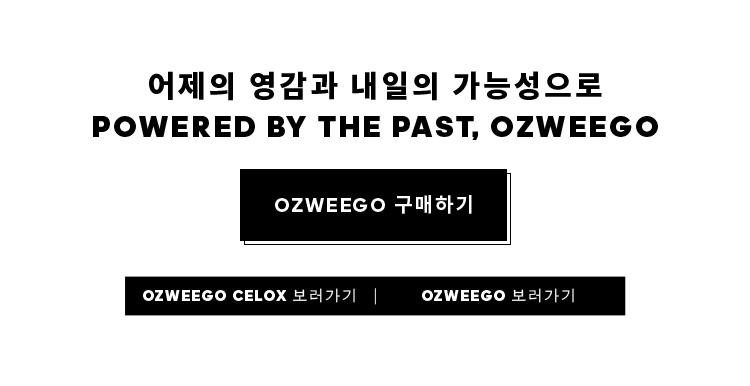
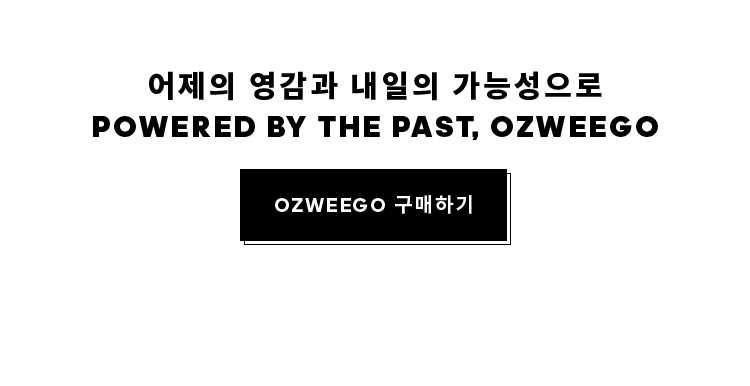
후

Changed region(s): [[0.1533, 0.715, 0.8587, 0.8394]]

diff --git a/mobile/html/adidas/pn/SS21ozweego.html b/mobile/html/adidas/pn/SS21ozweego.html
@@ -1,5 +1,5 @@
 <div id="container">
-        <style type="text/css">@media screen and (max-width: 320px){html{font-size:10px}}@media screen and (min-width: 800px){html{font-size:12px}}.pseudo-element{content:'';display:block}#ozweego{position:relative}#ozweego button,#ozweego div,#ozweego a{outline:none}#ozweego .button_area_v2{display:inline-block}#ozweego .button_area_v2 a{height:44px;font:400 10px/43px 'NotoSansKR';letter-spacing:1px;padding:0 20px}#ozweego .button_area_v2>div.gray a{background:#1b1b1e;color:#fff}#ozweego .button_area_v2>div.gray a::after{-webkit-box-shadow:inset 0 0 0 1px #1b1b1e;box-shadow:inset 0 0 0 1px #1b1b1e}#ozweego .rel{position:relative}#ozweego section{position:relative}#ozweego img{width:100%}#ozweego .celox .bg01{background:url("/images/adidas/2021/event/originals/ozweego/celox/bg01.jpg") no-repeat;background-position:top;background-size:100% 100%}#ozweego .celox .bg02{background:url("/images/adidas/2021/event/originals/ozweego/celox/bg02.jpg") no-repeat;background-position:top;background-size:100% 100%}#ozweego .oz .bg01{background:url("/images/adidas/2021/event/originals/ozweego/oz/bg01.jpg") no-repeat;background-position:top;background-size:100% 100%}#ozweego .oz .bg02{background:url("/images/adidas/2021/event/originals/ozweego/oz/bg02.jpg") no-repeat;background-position:top;background-size:100% 100%}#ozweego .mi{padding:2.5rem 0 6em !important}#ozweego .visuals .visuals__figure{position:relative;padding-top:99.5%}#ozweego .visuals .visuals__figure img{position:absolute;top:0;bottom:auto;left:0;transform:none;margin-left:auto;z-index:1;opacity:0;transition:all 0.5s ease-in}#ozweego .visuals .visuals__figure img.on{opacity:1}#ozweego .contents{width:100%;padding-top:839%;background:#cae017}@media screen and (device-width: 320px){#ozweego .contents{padding-top:865%}}@media screen and (device-width: 360px){#ozweego .contents{padding-top:848%}}@media screen and (device-width: 375px){#ozweego .contents{padding-top:839%}}@media screen and (device-width: 414px){#ozweego .contents{padding-top:820%}}#ozweego .contents .contents__container{position:absolute;top:0;left:0;width:100%;opacity:0;transition:all 1s ease-in}#ozweego .contents .contents__container.on{opacity:1;z-index:1}#ozweego .contents .contents__container .slider_wrap{padding:4rem 0}#ozweego .contents .contents__container .slider_wrap>div{position:relative;text-align:center}#ozweego .contents .contents__container .slider_wrap>div:first-child .button_area_v2{margin-bottom:4rem}#ozweego .contents .contents__container .slider_wrap>div .slider_set01{width:75%;margin:0 auto}#ozweego .contents .contents__container .slider_wrap>div .slider_set01 .slick-dots{text-align:center;margin:1rem 0}#ozweego .contents .contents__container .slider_wrap>div .slider_set01 .slick-dots li{display:inline-block;width:7px;height:7px;margin:0 2px;border:1px solid #fff;border-radius:50%}#ozweego .contents .contents__container .slider_wrap>div .slider_set01 .slick-dots li button{background:none;text-indent:-9999px;border:0}#ozweego .contents .contents__container .slider_wrap>div .slider_set01 .slick-dots li.slick-active{background:#fff}#ozweego .contents .contents__container .slider_wrap>div .slider__nav{position:absolute;top:31%;bottom:auto;left:50%;transform:translate(-50%, -50%);margin-left:auto;width:90%;margin:0 auto}#ozweego .contents .contents__container .slider_wrap>div .slider__nav::after{display:block;content:'';clear:both}#ozweego .contents .contents__container .slider_wrap>div .slider__nav .prev-button,#ozweego .contents .contents__container .slider_wrap>div .slider__nav .next-button{display:inline-block;width:3.5%}#ozweego .contents .contents__container .slider_wrap>div .slider__nav .prev-button{float:left;transform:rotate(-180deg)}#ozweego .contents .contents__container .slider_wrap>div .slider__nav .next-button{float:right}#ozweego .contents .contents__container .subSlider_wrap{padding:2.5rem 0}#ozweego .contents .contents__container .subSlider_wrap .video02{position:relative;width:75%;margin:0 auto;padding:0 0 0.5rem}#ozweego .contents .contents__container .subSlider_wrap .slider__inner{text-align:center}#ozweego .contents .contents__container .subSlider_wrap .slider__inner .slider_set02{width:75%;margin:0 auto}#ozweego .contents .contents__container .subSlider_wrap .slider__inner .slider_set02 .slick-dots{text-align:center;margin:1rem 0 0.3rem}#ozweego .contents .contents__container .subSlider_wrap .slider__inner .slider_set02 .slick-dots li{display:inline-block;width:7px;height:7px;margin:0 2px;border:1px solid #000;border-radius:50%}#ozweego .contents .contents__container .subSlider_wrap .slider__inner .slider_set02 .slick-dots li button{background:none;text-indent:-9999px;border:0}#ozweego .contents .contents__container .subSlider_wrap .slider__inner .slider_set02 .slick-dots li.slick-active{background:#000}#ozweego .contents .contents__container .subSlider_wrap .slider__inner .slider__nav{position:absolute;top:42%;bottom:auto;left:50%;transform:translate(-50%, -50%);margin-left:auto;width:90%;margin:0 auto}#ozweego .contents .contents__container .subSlider_wrap .slider__inner .slider__nav::after{display:block;content:'';clear:both}#ozweego .contents .contents__container .subSlider_wrap .slider__inner .slider__nav .prev-button,#ozweego .contents .contents__container .subSlider_wrap .slider__inner .slider__nav .next-button{display:inline-block;width:3.5%}#ozweego .contents .contents__container .subSlider_wrap .slider__inner .slider__nav .prev-button{float:left;transform:rotate(-180deg)}#ozweego .contents .contents__container .subSlider_wrap .slider__inner .slider__nav .next-button{float:right}#ozweego .contents .contents__container .subSlider_wrap .slider__inner p{text-align:left;width:75%;margin:0 auto 1rem;font:500 10px/17px "NotoSansKR";color:#000}
+        <style type="text/css">@media screen and (max-width: 320px){html{font-size:10px}}@media screen and (min-width: 800px){html{font-size:12px}}.pseudo-element{content:'';display:block}#ozweego{position:relative}#ozweego button,#ozweego div,#ozweego a{outline:none}#ozweego .button_area_v2{display:inline-block}#ozweego .button_area_v2 a{height:44px;font:400 10px/43px 'NotoSansKR';letter-spacing:1px;padding:0 20px}#ozweego .button_area_v2>div.gray a{background:#1b1b1e;color:#fff}#ozweego .button_area_v2>div.gray a::after{-webkit-box-shadow:inset 0 0 0 1px #1b1b1e;box-shadow:inset 0 0 0 1px #1b1b1e}#ozweego .rel{position:relative}#ozweego section{position:relative}#ozweego img{width:100%}#ozweego .celox .bg01{background:url("/images/adidas/2021/event/originals/ozweego/celox/bg01.jpg") no-repeat;background-position:top;background-size:100% 100%}#ozweego .celox .bg02{background:url("/images/adidas/2021/event/originals/ozweego/celox/bg02.jpg") no-repeat;background-position:top;background-size:100% 100%}#ozweego .oz .bg01{background:url("/images/adidas/2021/event/originals/ozweego/oz/bg01.jpg") no-repeat;background-position:top;background-size:100% 100%}#ozweego .oz .bg02{background:url("/images/adidas/2021/event/originals/ozweego/oz/bg02.jpg") no-repeat;background-position:top;background-size:100% 100%}#ozweego .mi{padding:2.5rem 0 6em !important}#ozweego .visuals .visuals__figure{position:relative;padding-top:99.5%}#ozweego .visuals .visuals__figure img{position:absolute;top:0;bottom:auto;left:0;transform:none;margin-left:auto;z-index:1;opacity:0;transition:all 0.5s ease-in}#ozweego .visuals .visuals__figure img.on{opacity:1}#ozweego .tabs{position:absolute;bottom:17%;left:50%;transform:translateX(-50%);text-align:center;width:100%}#ozweego .tabs>img{width:70%}#ozweego .contents{width:100%;padding-top:839%;background:#cae017}@media screen and (device-width: 320px){#ozweego .contents{padding-top:865%}}@media screen and (device-width: 360px){#ozweego .contents{padding-top:848%}}@media screen and (device-width: 375px){#ozweego .contents{padding-top:839%}}@media screen and (device-width: 414px){#ozweego .contents{padding-top:820%}}#ozweego .contents .contents__container{position:absolute;top:0;left:0;width:100%;opacity:0;transition:all 1s ease-in}#ozweego .contents .contents__container.on{opacity:1;z-index:1}#ozweego .contents .contents__container .slider_wrap{padding:4rem 0}#ozweego .contents .contents__container .slider_wrap>div{position:relative;text-align:center}#ozweego .contents .contents__container .slider_wrap>div:first-child .button_area_v2{margin-bottom:4rem}#ozweego .contents .contents__container .slider_wrap>div .slider_set01{width:75%;margin:0 auto}#ozweego .contents .contents__container .slider_wrap>div .slider_set01 .slick-dots{text-align:center;margin:1rem 0}#ozweego .contents .contents__container .slider_wrap>div .slider_set01 .slick-dots li{display:inline-block;width:7px;height:7px;margin:0 2px;border:1px solid #fff;border-radius:50%}#ozweego .contents .contents__container .slider_wrap>div .slider_set01 .slick-dots li button{background:none;text-indent:-9999px;border:0}#ozweego .contents .contents__container .slider_wrap>div .slider_set01 .slick-dots li.slick-active{background:#fff}#ozweego .contents .contents__container .slider_wrap>div .slider__nav{position:absolute;top:31%;bottom:auto;left:50%;transform:translate(-50%, -50%);margin-left:auto;width:90%;margin:0 auto}#ozweego .contents .contents__container .slider_wrap>div .slider__nav::after{display:block;content:'';clear:both}#ozweego .contents .contents__container .slider_wrap>div .slider__nav .prev-button,#ozweego .contents .contents__container .slider_wrap>div .slider__nav .next-button{display:inline-block;width:3.5%}#ozweego .contents .contents__container .slider_wrap>div .slider__nav .prev-button{float:left;transform:rotate(-180deg)}#ozweego .contents .contents__container .slider_wrap>div .slider__nav .next-button{float:right}#ozweego .contents .contents__container .subSlider_wrap{padding:2.5rem 0}#ozweego .contents .contents__container .subSlider_wrap .video02{position:relative;width:75%;margin:0 auto;padding:0 0 0.5rem}#ozweego .contents .contents__container .subSlider_wrap .slider__inner{text-align:center}#ozweego .contents .contents__container .subSlider_wrap .slider__inner .slider_set02{width:75%;margin:0 auto}#ozweego .contents .contents__container .subSlider_wrap .slider__inner .slider_set02 .slick-dots{text-align:center;margin:1rem 0 0.3rem}#ozweego .contents .contents__container .subSlider_wrap .slider__inner .slider_set02 .slick-dots li{display:inline-block;width:7px;height:7px;margin:0 2px;border:1px solid #000;border-radius:50%}#ozweego .contents .contents__container .subSlider_wrap .slider__inner .slider_set02 .slick-dots li button{background:none;text-indent:-9999px;border:0}#ozweego .contents .contents__container .subSlider_wrap .slider__inner .slider_set02 .slick-dots li.slick-active{background:#000}#ozweego .contents .contents__container .subSlider_wrap .slider__inner .slider__nav{position:absolute;top:42%;bottom:auto;left:50%;transform:translate(-50%, -50%);margin-left:auto;width:90%;margin:0 auto}#ozweego .contents .contents__container .subSlider_wrap .slider__inner .slider__nav::after{display:block;content:'';clear:both}#ozweego .contents .contents__container .subSlider_wrap .slider__inner .slider__nav .prev-button,#ozweego .contents .contents__container .subSlider_wrap .slider__inner .slider__nav .next-button{display:inline-block;width:3.5%}#ozweego .contents .contents__container .subSlider_wrap .slider__inner .slider__nav .prev-button{float:left;transform:rotate(-180deg)}#ozweego .contents .contents__container .subSlider_wrap .slider__inner .slider__nav .next-button{float:right}#ozweego .contents .contents__container .subSlider_wrap .slider__inner p{text-align:left;width:75%;margin:0 auto 1rem;font:500 10px/17px "NotoSansKR";color:#000}
         </style>
                                 <div id="ozweego">
                                         <link rel="stylesheet" type="text/css" href="/css/slick.css" />
@@ -10,21 +10,22 @@
                                                                                         <img src="/images/adidas/2021/event/originals/ozweego/main02.jpg" alt="">
                                                                         </div>
                                                         </section>
-                                                        <section class="visuals__tab">
-                                                                        <section class="visuals__tab__figure">
+                                                        <section class="visuals__text">
+                                                                        <section class="visuals__text__figure">
                                                                                         <img src="/images/adidas/2021/event/originals/ozweego/main_text.jpg" alt="">
-                                                                                        <a href="#" style="position: absolute;top:70%;left:16%;width:33%;height:14%" class="prevent"></a>
-                                                                                        <a href="#" style="position: absolute;top:70%;left:51%;width:33%;height:14%" class="prevent"></a>
-                                                                                        <div>
-                                                                                                        <a href="https://m.adidas.co.kr/MO/Promotion/landingPage.action?NFN_ST=Y&pageNo=1536&term=1" style="position: absolute;top:43%;left:32%;width:36%;height:20%"></a>
-                                                                                        </div>
+                                                                                        <a href="https://m.adidas.co.kr/MO/Promotion/landingPage.action?NFN_ST=Y&pageNo=1536&term=1" style="position: absolute;top:43%;left:32%;width:36%;height:20%"></a>
                                                                         </section>
+                                                                        <section class="tabs">
+                                                                                <img src="/images/adidas/2021/event/originals/ozweego/nav.png" alt="">
+                                                                                <a href="#" style="position: absolute;top:5%;left:16%;width:33%;height:87%" class="prevent"></a>
+                                                                                <a href="#" style="position: absolute;top:5%;left:51%;width:33%;height:87%" class="prevent"></a>
+                                                                </section>
                                                         </section>
-                                                        <section class="contents">
+                                                        <section class="contents scroll">
                                                                         <section class="contents__container celox on">
                                                                                         <section class="video01">
                                                                                                         <img src="/images/adidas/2021/event/originals/ozweego/celox/celox_video01.jpg" alt="">
-                                                                                                        <a href="#" style="position: absolute;top:34%;left:43%;width:13%;height:14%" onclick="openModalVideoViewer('PN2RXhfRwr8')" class="prevent"></a>
+                                                                                                        <a href="#" style="position: absolute;top:34%;left:43%;width:13%;height:14%" onclick="openModalVideoViewer('3O7cRbXBVBw')" class="prevent"></a>
                                                                                         </section>
                                                                                         <section class="slider_wrap bg01">
                                                                                                         <div class="slider__inner">
@@ -229,7 +230,7 @@
                                                                         <section class="contents__container oz">
                                                                                         <section class="video01">
                                                                                                         <img src="/images/adidas/2021/event/originals/ozweego/oz/oz_video01.jpg" alt="">
-                                                                                                        <a href="#" style="position: absolute;top:34%;left:43%;width:13%;height:14%" onclick="openModalVideoViewer('3O7cRbXBVBw')" class="prevent"></a>
+                                                                                                        <a href="#" style="position: absolute;top:34%;left:43%;width:13%;height:14%" onclick="openModalVideoViewer('PN2RXhfRwr8')" class="prevent"></a>
                                                                                         </section>
                                                                                         <section class="slider_wrap bg01">
                                                                                                         <div class="slider__inner">
@@ -351,6 +352,7 @@
                                                                                                                                         모양을 닮은 독특한 디자인과 화려한 색감의 갑피 덕분에 심플 하지만 더욱 미래
                                                                                                                                         적이고 독특한 형태의 작품이 완성 되었다. 오즈위고는 피스가 매우 많아 해체부터
                                                                                                                                         쉽지 않은 작업이 었지만, 그 만큼 더 구조적이고 입체적인 결과물이 나왔다.
+                                                                                                                                        오즈위고 셀록스 작업은 상단의 “OZWEEGO CELOX 보러가기”를 클릭해주세요.
                                                                                                                         </p>
                                                                                                                         <div class="button_area_v2" style="">
                                                                                                                                         <div class="">
@@ -437,6 +439,21 @@
                                 <script type="text/javascript" src="/designjs/common/slick.min.js"></script>
                                 <script type="text/javascript">
                                         $(document).ready(function(){
+                                                $(this).scroll(function(){
+                                                        var thisScroll = $(this).scrollTop();
+                                                        var section = $('#ozweego .tabs');
+                                                        $.each( section, function( index, elem ){
+                                                                var $target = section.eq(index);
+                                                                // console.log($target);
+                                                                var targetTop = $('.scroll').offset().top-70;
+                                                                // console.log(targetTop);
+                                                                if(targetTop <= thisScroll) {
+                                                                        $('#ozweego .tabs').addClass('fixed');
+                                                                } else {
+                                                                        $('#ozweego .tabs').removeClass('fixed');
+                                                                }
+                                                        })
+                                                })
                                                 // rolling
                                                 var rolling = (function(){
                                                         var imgs = $('.visuals__figure img');
@@ -448,7 +465,7 @@
                                                 })();
         
                                                 // tab
-                                                $('.visuals__tab a').click(function(){
+                                                $('.visuals__text .tabs a').click(function(){
                                                         var index = $(this).index();
                                                         $('.contents .contents__container').removeClass('on').eq(index-1).addClass('on');
                                                         function bg(color){ $('.contents').css('background',color) };

diff --git a/mobile/html/adidas/2021/event/originals/ozweego/build/index.html b/mobile/html/adidas/2021/event/originals/ozweego/build/index.html
@@ -1,4 +1,4 @@
- <!DOCTYPE html>
+<!DOCTYPE html>
 <html>
 <head>
     <script type="text/javascript" src="/data/eventRouter.js"></script>
@@ -26,7 +26,7 @@
 		<header include-html="/html/adidas/inc/header_.html"></header>
 
 		<div id="container">
-<style type="text/css">@media screen and (max-width: 320px){html{font-size:10px}}@media screen and (min-width: 800px){html{font-size:12px}}.pseudo-element{content:'';display:block}#ozweego{position:relative}#ozweego button,#ozweego div,#ozweego a{outline:none}#ozweego .button_area_v2{display:inline-block}#ozweego .button_area_v2 a{height:44px;font:400 10px/43px 'NotoSansKR';letter-spacing:1px;padding:0 20px}#ozweego .button_area_v2>div.gray a{background:#1b1b1e;color:#fff}#ozweego .button_area_v2>div.gray a::after{-webkit-box-shadow:inset 0 0 0 1px #1b1b1e;box-shadow:inset 0 0 0 1px #1b1b1e}#ozweego .rel{position:relative}#ozweego section{position:relative}#ozweego img{width:100%}#ozweego .celox .bg01{background:url("/images/adidas/2021/event/originals/ozweego/celox/bg01.jpg") no-repeat;background-position:top;background-size:100% 100%}#ozweego .celox .bg02{background:url("/images/adidas/2021/event/originals/ozweego/celox/bg02.jpg") no-repeat;background-position:top;background-size:100% 100%}#ozweego .oz .bg01{background:url("/images/adidas/2021/event/originals/ozweego/oz/bg01.jpg") no-repeat;background-position:top;background-size:100% 100%}#ozweego .oz .bg02{background:url("/images/adidas/2021/event/originals/ozweego/oz/bg02.jpg") no-repeat;background-position:top;background-size:100% 100%}#ozweego .mi{padding:2.5rem 0 6em !important}#ozweego .visuals .visuals__figure{position:relative;padding-top:99.5%}#ozweego .visuals .visuals__figure img{position:absolute;top:0;bottom:auto;left:0;transform:none;margin-left:auto;z-index:1;opacity:0;transition:all 0.5s ease-in}#ozweego .visuals .visuals__figure img.on{opacity:1}#ozweego .contents{width:100%;padding-top:839%;background:#cae017}@media screen and (device-width: 320px){#ozweego .contents{padding-top:865%}}@media screen and (device-width: 360px){#ozweego .contents{padding-top:848%}}@media screen and (device-width: 375px){#ozweego .contents{padding-top:839%}}@media screen and (device-width: 414px){#ozweego .contents{padding-top:820%}}#ozweego .contents .contents__container{position:absolute;top:0;left:0;width:100%;opacity:0;transition:all 1s ease-in}#ozweego .contents .contents__container.on{opacity:1;z-index:1}#ozweego .contents .contents__container .slider_wrap{padding:4rem 0}#ozweego .contents .contents__container .slider_wrap>div{position:relative;text-align:center}#ozweego .contents .contents__container .slider_wrap>div:first-child .button_area_v2{margin-bottom:4rem}#ozweego .contents .contents__container .slider_wrap>div .slider_set01{width:75%;margin:0 auto}#ozweego .contents .contents__container .slider_wrap>div .slider_set01 .slick-dots{text-align:center;margin:1rem 0}#ozweego .contents .contents__container .slider_wrap>div .slider_set01 .slick-dots li{display:inline-block;width:7px;height:7px;margin:0 2px;border:1px solid #fff;border-radius:50%}#ozweego .contents .contents__container .slider_wrap>div .slider_set01 .slick-dots li button{background:none;text-indent:-9999px;border:0}#ozweego .contents .contents__container .slider_wrap>div .slider_set01 .slick-dots li.slick-active{background:#fff}#ozweego .contents .contents__container .slider_wrap>div .slider__nav{position:absolute;top:31%;bottom:auto;left:50%;transform:translate(-50%, -50%);margin-left:auto;width:90%;margin:0 auto}#ozweego .contents .contents__container .slider_wrap>div .slider__nav::after{display:block;content:'';clear:both}#ozweego .contents .contents__container .slider_wrap>div .slider__nav .prev-button,#ozweego .contents .contents__container .slider_wrap>div .slider__nav .next-button{display:inline-block;width:3.5%}#ozweego .contents .contents__container .slider_wrap>div .slider__nav .prev-button{float:left;transform:rotate(-180deg)}#ozweego .contents .contents__container .slider_wrap>div .slider__nav .next-button{float:right}#ozweego .contents .contents__container .subSlider_wrap{padding:2.5rem 0}#ozweego .contents .contents__container .subSlider_wrap .video02{position:relative;width:75%;margin:0 auto;padding:0 0 0.5rem}#ozweego .contents .contents__container .subSlider_wrap .slider__inner{text-align:center}#ozweego .contents .contents__container .subSlider_wrap .slider__inner .slider_set02{width:75%;margin:0 auto}#ozweego .contents .contents__container .subSlider_wrap .slider__inner .slider_set02 .slick-dots{text-align:center;margin:1rem 0 0.3rem}#ozweego .contents .contents__container .subSlider_wrap .slider__inner .slider_set02 .slick-dots li{display:inline-block;width:7px;height:7px;margin:0 2px;border:1px solid #000;border-radius:50%}#ozweego .contents .contents__container .subSlider_wrap .slider__inner .slider_set02 .slick-dots li button{background:none;text-indent:-9999px;border:0}#ozweego .contents .contents__container .subSlider_wrap .slider__inner .slider_set02 .slick-dots li.slick-active{background:#000}#ozweego .contents .contents__container .subSlider_wrap .slider__inner .slider__nav{position:absolute;top:42%;bottom:auto;left:50%;transform:translate(-50%, -50%);margin-left:auto;width:90%;margin:0 auto}#ozweego .contents .contents__container .subSlider_wrap .slider__inner .slider__nav::after{display:block;content:'';clear:both}#ozweego .contents .contents__container .subSlider_wrap .slider__inner .slider__nav .prev-button,#ozweego .contents .contents__container .subSlider_wrap .slider__inner .slider__nav .next-button{display:inline-block;width:3.5%}#ozweego .contents .contents__container .subSlider_wrap .slider__inner .slider__nav .prev-button{float:left;transform:rotate(-180deg)}#ozweego .contents .contents__container .subSlider_wrap .slider__inner .slider__nav .next-button{float:right}#ozweego .contents .contents__container .subSlider_wrap .slider__inner p{text-align:left;width:75%;margin:0 auto 1rem;font:500 10px/17px "NotoSansKR";color:#000}
+<style type="text/css">@media screen and (max-width: 320px){html{font-size:10px}}@media screen and (min-width: 800px){html{font-size:12px}}.pseudo-element{content:'';display:block}#ozweego{position:relative}#ozweego button,#ozweego div,#ozweego a{outline:none}#ozweego .button_area_v2{display:inline-block}#ozweego .button_area_v2 a{height:44px;font:400 10px/43px 'NotoSansKR';letter-spacing:1px;padding:0 20px}#ozweego .button_area_v2>div.gray a{background:#1b1b1e;color:#fff}#ozweego .button_area_v2>div.gray a::after{-webkit-box-shadow:inset 0 0 0 1px #1b1b1e;box-shadow:inset 0 0 0 1px #1b1b1e}#ozweego .rel{position:relative}#ozweego section{position:relative}#ozweego img{width:100%}#ozweego .celox .bg01{background:url("/images/adidas/2021/event/originals/ozweego/celox/bg01.jpg") no-repeat;background-position:top;background-size:100% 100%}#ozweego .celox .bg02{background:url("/images/adidas/2021/event/originals/ozweego/celox/bg02.jpg") no-repeat;background-position:top;background-size:100% 100%}#ozweego .oz .bg01{background:url("/images/adidas/2021/event/originals/ozweego/oz/bg01.jpg") no-repeat;background-position:top;background-size:100% 100%}#ozweego .oz .bg02{background:url("/images/adidas/2021/event/originals/ozweego/oz/bg02.jpg") no-repeat;background-position:top;background-size:100% 100%}#ozweego .mi{padding:2.5rem 0 6em !important}#ozweego .visuals .visuals__figure{position:relative;padding-top:99.5%}#ozweego .visuals .visuals__figure img{position:absolute;top:0;bottom:auto;left:0;transform:none;margin-left:auto;z-index:1;opacity:0;transition:all 0.5s ease-in}#ozweego .visuals .visuals__figure img.on{opacity:1}#ozweego .tabs{position:absolute;bottom:17%;left:50%;transform:translateX(-50%);text-align:center;width:100%}#ozweego .tabs>img{width:70%}#ozweego .contents{width:100%;padding-top:839%;background:#cae017}@media screen and (device-width: 320px){#ozweego .contents{padding-top:865%}}@media screen and (device-width: 360px){#ozweego .contents{padding-top:848%}}@media screen and (device-width: 375px){#ozweego .contents{padding-top:839%}}@media screen and (device-width: 414px){#ozweego .contents{padding-top:820%}}#ozweego .contents .contents__container{position:absolute;top:0;left:0;width:100%;opacity:0;transition:all 1s ease-in}#ozweego .contents .contents__container.on{opacity:1;z-index:1}#ozweego .contents .contents__container .slider_wrap{padding:4rem 0}#ozweego .contents .contents__container .slider_wrap>div{position:relative;text-align:center}#ozweego .contents .contents__container .slider_wrap>div:first-child .button_area_v2{margin-bottom:4rem}#ozweego .contents .contents__container .slider_wrap>div .slider_set01{width:75%;margin:0 auto}#ozweego .contents .contents__container .slider_wrap>div .slider_set01 .slick-dots{text-align:center;margin:1rem 0}#ozweego .contents .contents__container .slider_wrap>div .slider_set01 .slick-dots li{display:inline-block;width:7px;height:7px;margin:0 2px;border:1px solid #fff;border-radius:50%}#ozweego .contents .contents__container .slider_wrap>div .slider_set01 .slick-dots li button{background:none;text-indent:-9999px;border:0}#ozweego .contents .contents__container .slider_wrap>div .slider_set01 .slick-dots li.slick-active{background:#fff}#ozweego .contents .contents__container .slider_wrap>div .slider__nav{position:absolute;top:31%;bottom:auto;left:50%;transform:translate(-50%, -50%);margin-left:auto;width:90%;margin:0 auto}#ozweego .contents .contents__container .slider_wrap>div .slider__nav::after{display:block;content:'';clear:both}#ozweego .contents .contents__container .slider_wrap>div .slider__nav .prev-button,#ozweego .contents .contents__container .slider_wrap>div .slider__nav .next-button{display:inline-block;width:3.5%}#ozweego .contents .contents__container .slider_wrap>div .slider__nav .prev-button{float:left;transform:rotate(-180deg)}#ozweego .contents .contents__container .slider_wrap>div .slider__nav .next-button{float:right}#ozweego .contents .contents__container .subSlider_wrap{padding:2.5rem 0}#ozweego .contents .contents__container .subSlider_wrap .video02{position:relative;width:75%;margin:0 auto;padding:0 0 0.5rem}#ozweego .contents .contents__container .subSlider_wrap .slider__inner{text-align:center}#ozweego .contents .contents__container .subSlider_wrap .slider__inner .slider_set02{width:75%;margin:0 auto}#ozweego .contents .contents__container .subSlider_wrap .slider__inner .slider_set02 .slick-dots{text-align:center;margin:1rem 0 0.3rem}#ozweego .contents .contents__container .subSlider_wrap .slider__inner .slider_set02 .slick-dots li{display:inline-block;width:7px;height:7px;margin:0 2px;border:1px solid #000;border-radius:50%}#ozweego .contents .contents__container .subSlider_wrap .slider__inner .slider_set02 .slick-dots li button{background:none;text-indent:-9999px;border:0}#ozweego .contents .contents__container .subSlider_wrap .slider__inner .slider_set02 .slick-dots li.slick-active{background:#000}#ozweego .contents .contents__container .subSlider_wrap .slider__inner .slider__nav{position:absolute;top:42%;bottom:auto;left:50%;transform:translate(-50%, -50%);margin-left:auto;width:90%;margin:0 auto}#ozweego .contents .contents__container .subSlider_wrap .slider__inner .slider__nav::after{display:block;content:'';clear:both}#ozweego .contents .contents__container .subSlider_wrap .slider__inner .slider__nav .prev-button,#ozweego .contents .contents__container .subSlider_wrap .slider__inner .slider__nav .next-button{display:inline-block;width:3.5%}#ozweego .contents .contents__container .subSlider_wrap .slider__inner .slider__nav .prev-button{float:left;transform:rotate(-180deg)}#ozweego .contents .contents__container .subSlider_wrap .slider__inner .slider__nav .next-button{float:right}#ozweego .contents .contents__container .subSlider_wrap .slider__inner p{text-align:left;width:75%;margin:0 auto 1rem;font:500 10px/17px "NotoSansKR";color:#000}
 </style>
 			<div id="ozweego">
 				<link rel="stylesheet" type="text/css" href="/css/slick.css" />
@@ -37,21 +37,22 @@
 										<img src="/images/adidas/2021/event/originals/ozweego/main02.jpg" alt="">
 								</div>
 						</section>
-						<section class="visuals__tab">
-								<section class="visuals__tab__figure">
+						<section class="visuals__text">
+								<section class="visuals__text__figure">
 										<img src="/images/adidas/2021/event/originals/ozweego/main_text.jpg" alt="">
-										<a href="#" style="position: absolute;top:70%;left:16%;width:33%;height:14%" class="prevent"></a>
-										<a href="#" style="position: absolute;top:70%;left:51%;width:33%;height:14%" class="prevent"></a>
-										<div>
-												<a href="https://m.adidas.co.kr/MO/Promotion/landingPage.action?NFN_ST=Y&pageNo=1536&term=1" style="position: absolute;top:43%;left:32%;width:36%;height:20%"></a>
-										</div>
+										<a href="https://m.adidas.co.kr/MO/Promotion/landingPage.action?NFN_ST=Y&pageNo=1536&term=1" style="position: absolute;top:43%;left:32%;width:36%;height:20%"></a>
 								</section>
+								<section class="tabs">
+									<img src="/images/adidas/2021/event/originals/ozweego/nav.png" alt="">
+									<a href="#" style="position: absolute;top:5%;left:16%;width:33%;height:87%" class="prevent"></a>
+									<a href="#" style="position: absolute;top:5%;left:51%;width:33%;height:87%" class="prevent"></a>
+							</section>
 						</section>
-						<section class="contents">
+						<section class="contents scroll">
 								<section class="contents__container celox on">
 										<section class="video01">
 												<img src="/images/adidas/2021/event/originals/ozweego/celox/celox_video01.jpg" alt="">
-												<a href="#" style="position: absolute;top:34%;left:43%;width:13%;height:14%" onclick="openModalVideoViewer('PN2RXhfRwr8')" class="prevent"></a>
+												<a href="#" style="position: absolute;top:34%;left:43%;width:13%;height:14%" onclick="openModalVideoViewer('3O7cRbXBVBw')" class="prevent"></a>
 										</section>
 										<section class="slider_wrap bg01">
 												<div class="slider__inner">
@@ -256,7 +257,7 @@
 								<section class="contents__container oz">
 										<section class="video01">
 												<img src="/images/adidas/2021/event/originals/ozweego/oz/oz_video01.jpg" alt="">
-												<a href="#" style="position: absolute;top:34%;left:43%;width:13%;height:14%" onclick="openModalVideoViewer('3O7cRbXBVBw')" class="prevent"></a>
+												<a href="#" style="position: absolute;top:34%;left:43%;width:13%;height:14%" onclick="openModalVideoViewer('PN2RXhfRwr8')" class="prevent"></a>
 										</section>
 										<section class="slider_wrap bg01">
 												<div class="slider__inner">
@@ -378,6 +379,7 @@
 																모양을 닮은 독특한 디자인과 화려한 색감의 갑피 덕분에 심플 하지만 더욱 미래
 																적이고 독특한 형태의 작품이 완성 되었다. 오즈위고는 피스가 매우 많아 해체부터
 																쉽지 않은 작업이 었지만, 그 만큼 더 구조적이고 입체적인 결과물이 나왔다.
+																오즈위고 셀록스 작업은 상단의 “OZWEEGO CELOX 보러가기”를 클릭해주세요.
 														</p>
 														<div class="button_area_v2" style="">
 																<div class="">
@@ -464,6 +466,21 @@
 			<script type="text/javascript" src="/designjs/common/slick.min.js"></script>
 			<script type="text/javascript">
 				$(document).ready(function(){
+					$(this).scroll(function(){
+						var thisScroll = $(this).scrollTop();
+						var section = $('#ozweego .tabs');
+						$.each( section, function( index, elem ){
+							var $target = section.eq(index);
+							// console.log($target);
+							var targetTop = $('.scroll').offset().top-70;
+							// console.log(targetTop);
+							if(targetTop <= thisScroll) {
+								$('#ozweego .tabs').addClass('fixed');
+							} else {
+								$('#ozweego .tabs').removeClass('fixed');
+							}
+						})
+					})
 					// rolling
 					var rolling = (function(){
 						var imgs = $('.visuals__figure img');
@@ -475,7 +492,7 @@
 					})();
 
 					// tab
-					$('.visuals__tab a').click(function(){
+					$('.visuals__text .tabs a').click(function(){
 						var index = $(this).index();
 						$('.contents .contents__container').removeClass('on').eq(index-1).addClass('on');
 						function bg(color){ $('.contents').css('background',color) };

diff --git a/mobile/html/adidas/2021/event/originals/ozweego/index.html b/mobile/html/adidas/2021/event/originals/ozweego/index.html
@@ -1,4 +1,4 @@
- <!DOCTYPE html>
+<!DOCTYPE html>
 <html>
 <head>
     <script type="text/javascript" src="/data/eventRouter.js"></script>
@@ -35,21 +35,22 @@
 										<img src="/images/adidas/2021/event/originals/ozweego/main02.jpg" alt="">
 								</div>
 						</section>
-						<section class="visuals__tab">
-								<section class="visuals__tab__figure">
+						<section class="visuals__text">
+								<section class="visuals__text__figure">
 										<img src="/images/adidas/2021/event/originals/ozweego/main_text.jpg" alt="">
-										<a href="#" style="position: absolute;top:70%;left:16%;width:33%;height:14%" class="prevent"></a>
-										<a href="#" style="position: absolute;top:70%;left:51%;width:33%;height:14%" class="prevent"></a>
-										<div>
-												<a href="https://m.adidas.co.kr/MO/Promotion/landingPage.action?NFN_ST=Y&pageNo=1536&term=1" style="position: absolute;top:43%;left:32%;width:36%;height:20%"></a>
-										</div>
+										<a href="https://m.adidas.co.kr/MO/Promotion/landingPage.action?NFN_ST=Y&pageNo=1536&term=1" style="position: absolute;top:43%;left:32%;width:36%;height:20%"></a>
 								</section>
+								<section class="tabs">
+									<img src="/images/adidas/2021/event/originals/ozweego/nav.png" alt="">
+									<a href="#" style="position: absolute;top:5%;left:16%;width:33%;height:87%" class="prevent"></a>
+									<a href="#" style="position: absolute;top:5%;left:51%;width:33%;height:87%" class="prevent"></a>
+							</section>
 						</section>
-						<section class="contents">
+						<section class="contents scroll">
 								<section class="contents__container celox on">
 										<section class="video01">
 												<img src="/images/adidas/2021/event/originals/ozweego/celox/celox_video01.jpg" alt="">
-												<a href="#" style="position: absolute;top:34%;left:43%;width:13%;height:14%" onclick="openModalVideoViewer('PN2RXhfRwr8')" class="prevent"></a>
+												<a href="#" style="position: absolute;top:34%;left:43%;width:13%;height:14%" onclick="openModalVideoViewer('3O7cRbXBVBw')" class="prevent"></a>
 										</section>
 										<section class="slider_wrap bg01">
 												<div class="slider__inner">
@@ -254,7 +255,7 @@
 								<section class="contents__container oz">
 										<section class="video01">
 												<img src="/images/adidas/2021/event/originals/ozweego/oz/oz_video01.jpg" alt="">
-												<a href="#" style="position: absolute;top:34%;left:43%;width:13%;height:14%" onclick="openModalVideoViewer('3O7cRbXBVBw')" class="prevent"></a>
+												<a href="#" style="position: absolute;top:34%;left:43%;width:13%;height:14%" onclick="openModalVideoViewer('PN2RXhfRwr8')" class="prevent"></a>
 										</section>
 										<section class="slider_wrap bg01">
 												<div class="slider__inner">
@@ -376,6 +377,7 @@
 																모양을 닮은 독특한 디자인과 화려한 색감의 갑피 덕분에 심플 하지만 더욱 미래
 																적이고 독특한 형태의 작품이 완성 되었다. 오즈위고는 피스가 매우 많아 해체부터
 																쉽지 않은 작업이 었지만, 그 만큼 더 구조적이고 입체적인 결과물이 나왔다.
+																오즈위고 셀록스 작업은 상단의 “OZWEEGO CELOX 보러가기”를 클릭해주세요.
 														</p>
 														<div class="button_area_v2" style="">
 																<div class="">
@@ -462,6 +464,21 @@
 			<script type="text/javascript" src="/designjs/common/slick.min.js"></script>
 			<script type="text/javascript">
 				$(document).ready(function(){
+					$(this).scroll(function(){
+						var thisScroll = $(this).scrollTop();
+						var section = $('#ozweego .tabs');
+						$.each( section, function( index, elem ){
+							var $target = section.eq(index);
+							// console.log($target);
+							var targetTop = $('.scroll').offset().top-70;
+							// console.log(targetTop);
+							if(targetTop <= thisScroll) {
+								$('#ozweego .tabs').addClass('fixed');
+							} else {
+								$('#ozweego .tabs').removeClass('fixed');
+							}
+						})
+					})
 					// rolling
 					var rolling = (function(){
 						var imgs = $('.visuals__figure img');
@@ -473,7 +490,7 @@
 					})();
 
 					// tab
-					$('.visuals__tab a').click(function(){
+					$('.visuals__text .tabs a').click(function(){
 						var index = $(this).index();
 						$('.contents .contents__container').removeClass('on').eq(index-1).addClass('on');
 						function bg(color){ $('.contents').css('background',color) };

diff --git a/mobile/html/adidas/2021/event/originals/ozweego/index.scss b/mobile/html/adidas/2021/event/originals/ozweego/index.scss
@@ -70,7 +70,25 @@
 			}
 		}
 	}
-	.visuals__tab{}
+	.visuals__text{}
+	.tabs{
+		// &.fixed{
+		// 	position: fixed;
+		// 	bottom: initial;
+		// 	top: 11%;
+		// 	z-index: 2;
+		// }
+		position: absolute;
+		bottom: 17%;
+		left: 50%;
+		transform: translateX(-50%);
+		text-align: center;
+		width: 100%;
+		>img{
+			width: 70%;
+
+		}
+	}
 	.contents{
 		width: 100%;
 		padding-top: 839%;
